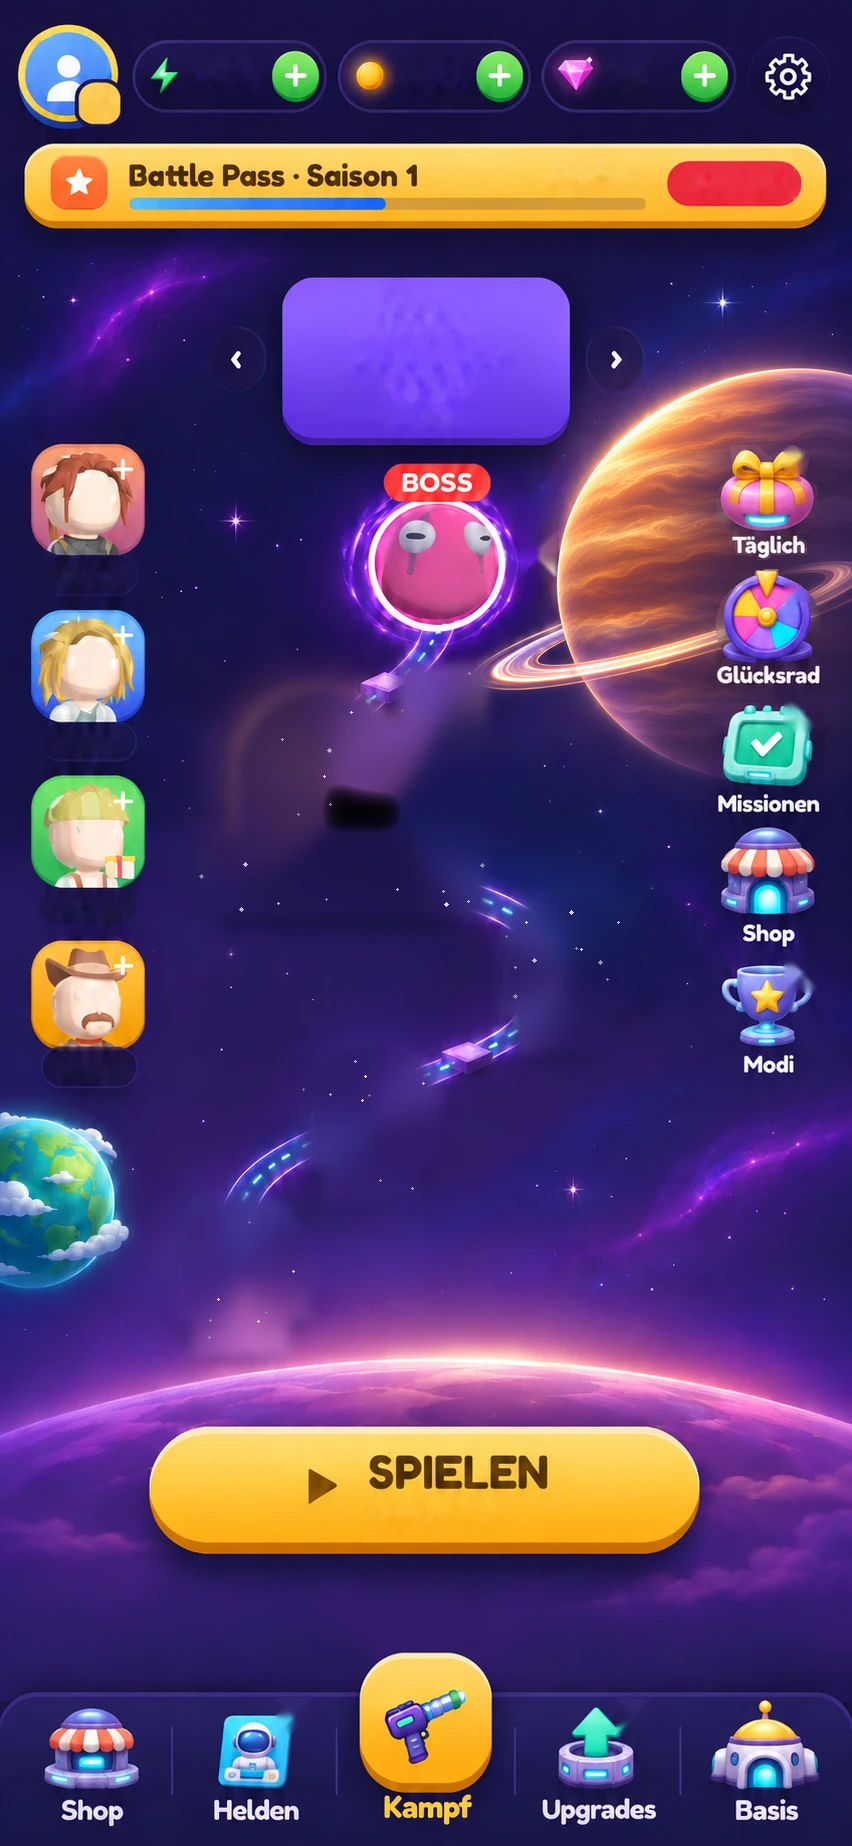
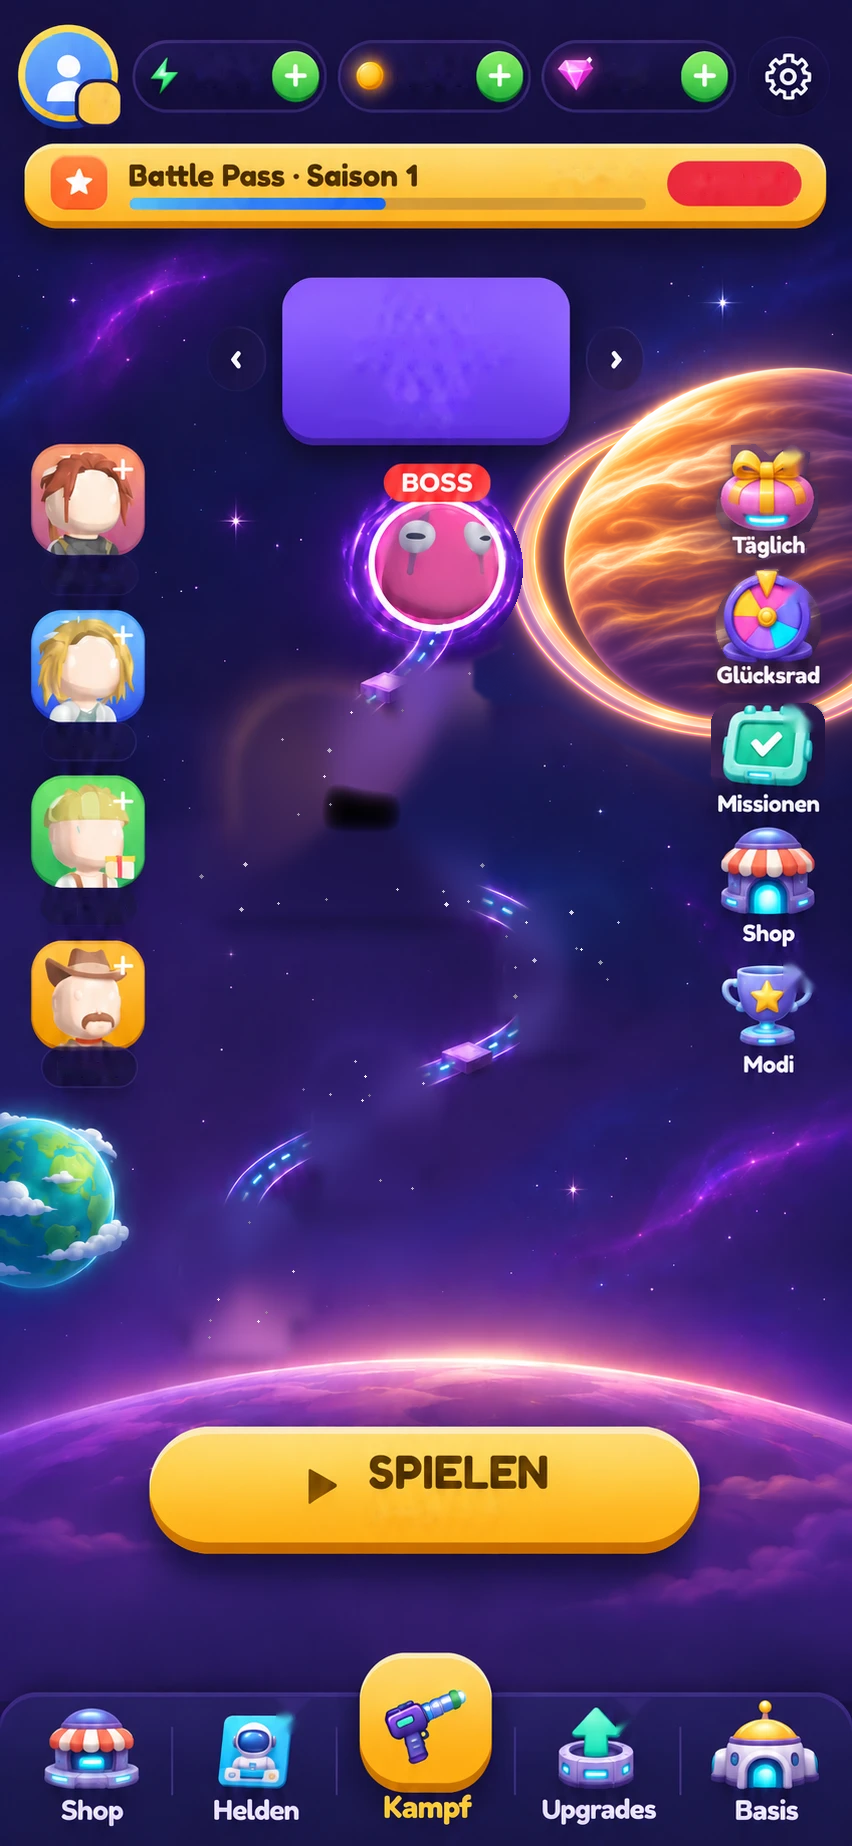
Ringplanet erneut korrigieren: Ring außen um die Kugel statt Querlinie auf der Oberfläche

Changed region(s): [[0.5493, 0.1853, 1.0, 0.4323]]

diff --git a/Vorlage_Raw/Hauptbildschirm_Comic_v5/LIESMICH_CLAUDE.md b/Vorlage_Raw/Hauptbildschirm_Comic_v5/LIESMICH_CLAUDE.md
@@ -1,9 +1,9 @@
-# Hauptbildschirm v5 – korrigierter Planetenring
+# Hauptbildschirm – erneute Ringkorrektur
 
-`hauptbildschirm_aktuell_v5.png`: 852 × 1846 Pixel, PNG/RGB. Der hintere obere Ringbogen verschwindet nun hinter der Planetenkugel. Der vordere untere Bogen verläuft vor der Kugel. Farben, Lage und Stil orientieren sich am gelieferten aktuellen Bildschirm.
+Stand 09.11.2026, Revision v6. Der Liefername `hauptbildschirm_aktuell_v5.png` bleibt für den bestehenden Einbau erhalten und ersetzt die vorherige missverständliche Ringfassung.
 
-Die eingebaute Bildgenerierung hat nur den Planeten-Ausschnitt neu gezeichnet. Für die Lieferung wurde ausschließlich der örtlich begrenzte Planeten- und Ringbereich eingesetzt. Die UI-Silhouetten und die Schrift wurden separat aus den Originalpixeln geschützt. Kopfleiste, Boss, Pfad, Angebote links, Spielen-Knopf, Reiterleiste und alle Pixel außerhalb der örtlichen Bearbeitungsmaske sind pixelgleich zum gelieferten Original. Die Knöpfe rechts und ihre Schrift bleiben durch die Schutzmaske original. Innerhalb des Planeten-/Ringbereichs wurden auch Wolkenbänder und Ringglanz neu gezeichnet; dort ist das Bild absichtlich nicht pixelgleich.
+Der Ring wird deutlich frontaler gesehen und liegt außen um die Planetenkugel. Die helle Querlinie durch die Planetenoberfläche ist entfernt. Die Kreisform und die orangebraunen Wolkenbänder sind als geschlossener Körper lesbar; der hintere obere Ringanteil verschwindet hinter der Kugel.
 
-Die Differenzprüfung bestätigt: außerhalb der Bearbeitungsmaske null geänderte Pixel; innerhalb der UI-Schutzmaske null geänderte Pixel. Kein gesamtes Neurendern des Bildschirms. Der Vergleich `vergleich_ring.png` zeigt vorher und nachher nebeneinander. Die Prüf- und Maskendateien liegen zusätzlich im Ordner für die Nachvollziehbarkeit.
+PNG/RGB, 852 × 1846 Pixel. Neue Planetengrafik mit eingebauter Bildgenerierung, danach ausschließlich im örtlichen Planeten-/Ringbereich eingesetzt. Die Masken halten den Boss, die Titelbox, die rechten Knöpfe und Texte sowie den restlichen Bildschirm geschützt. Die Differenzprüfung bestätigt null geänderte Pixel außerhalb der örtlichen Bearbeitungsmaske und null geänderte Pixel in der UI-Schutzmaske. Innerhalb des Planeten-/Ringbereichs wurden Wolkenbänder, Ring und Glanz neu gezeichnet. Keine Spielcodeänderung.
 
-Nur Bilddateien, keine Spielcodeänderungen. Keine weiteren kostenpflichtigen Dienste verwendet.
+`vergleich_ring.png` zeigt die ursprüngliche Vorlage und diese neue Außenringfassung. Die Masken und `PRUEFUNG.json` sind zur Nachvollziehbarkeit enthalten. Booster-Symbole und Gegnerdateien bleiben unverändert.
